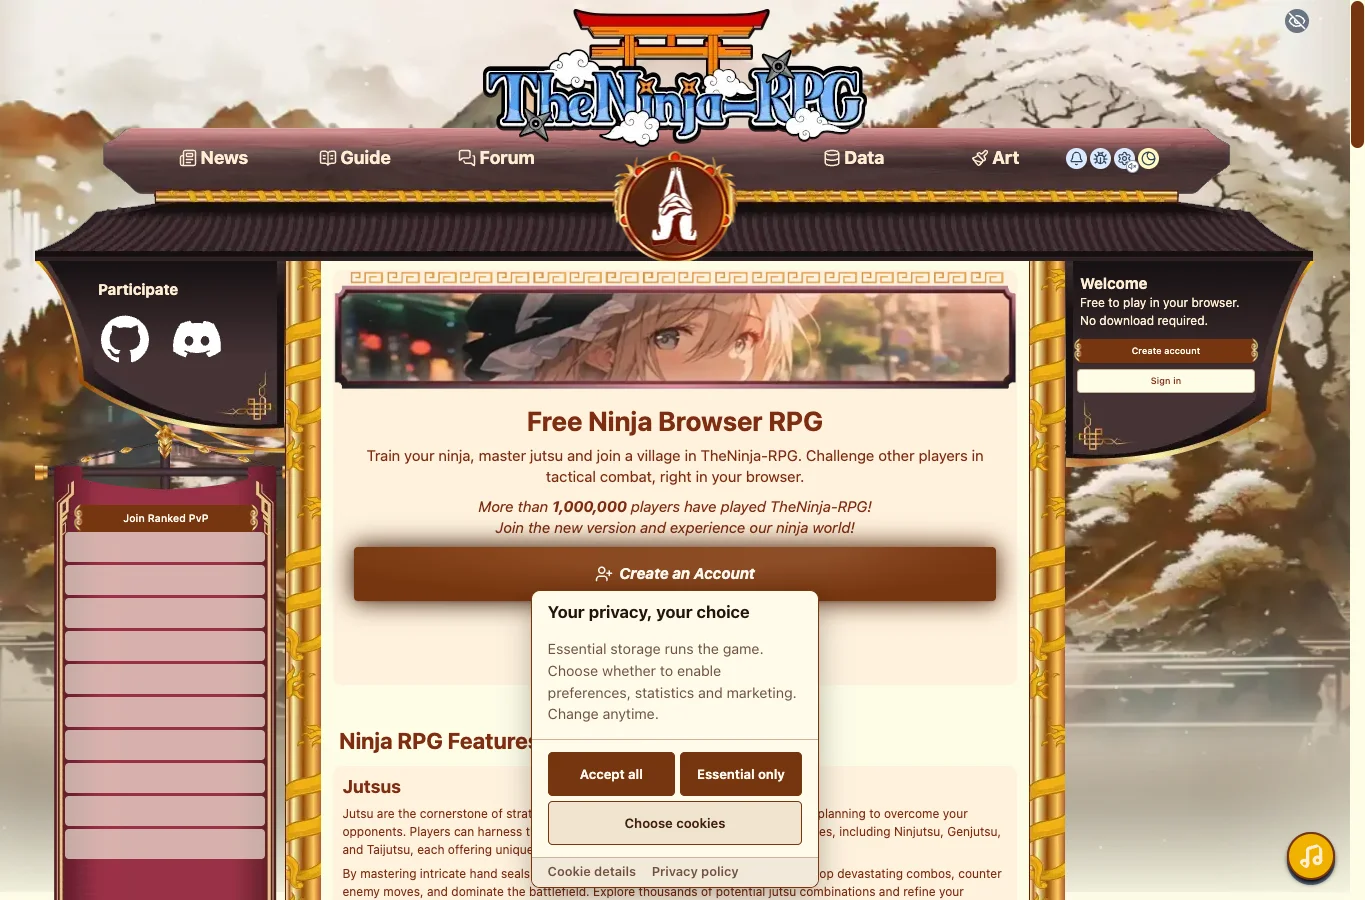
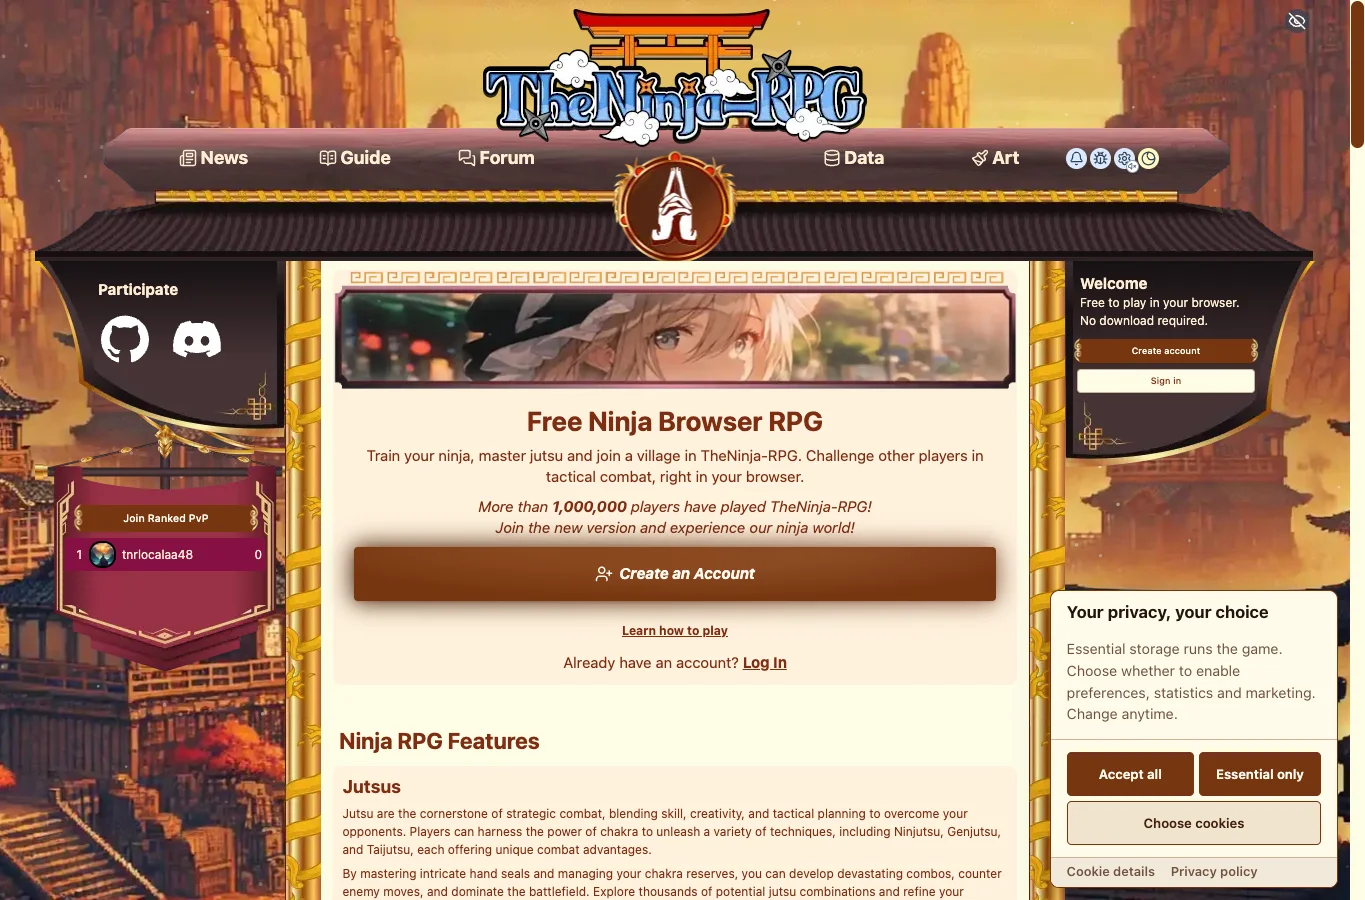
Integrate cookie settings into mobile navigation

diff --git a/app/tests/components/layout/mobile-game-nav.test.tsx b/app/tests/components/layout/mobile-game-nav.test.tsx
@@ -1,0 +1,123 @@
+import { afterEach, beforeEach, describe, expect, it, vi } from "bun:test";
+import { cleanup, fireEvent, render } from "@testing-library/react";
+import { MobileGameNav } from "@/components/layout/shared/MobileGameNav";
+import * as nativeShell from "@/hooks/useNativeShell";
+import * as cookieConsent from "@/libs/cookieConsent";
+import type { MobileNavConfig } from "@/libs/mobileNavConfig";
+import {
+  installBrowserGlobals,
+  restoreBrowserGlobals,
+} from "../../setup/browserGlobals";
+
+const userAgent = Object.getOwnPropertyDescriptor(navigator, "userAgent");
+const shortcuts: MobileNavConfig = {
+  left: ["academy", "inbox"],
+  right: ["items", "tavern", "settings"],
+};
+const props = {
+  mobileNavConfig: shortcuts,
+  location: { name: "Village", href: "/village" },
+  yellowButtonClassName: "h-14 w-14",
+  mobileNavbarButtonClassName: "h-16 w-16",
+};
+
+beforeEach(() => {
+  installBrowserGlobals({ resizeObserver: true });
+  vi.spyOn(nativeShell, "useNativeShell").mockReturnValue(false);
+});
+
+afterEach(() => {
+  cleanup();
+  vi.restoreAllMocks();
+  restoreBrowserGlobals();
+  if (userAgent) Object.defineProperty(navigator, "userAgent", userAgent);
+  else Reflect.deleteProperty(navigator, "userAgent");
+});
+
+describe("mobile game navigation cookie settings", () => {
+  it("opens preferences without leaving the player's current page", () => {
+    const open = vi
+      .spyOn(cookieConsent, "openCookieConsentDialog")
+      .mockReturnValue(true);
+    const view = render(<MobileGameNav {...props} />);
+    const link = view.getByRole("link", { name: "Cookie settings" });
+    expect(link.getAttribute("aria-haspopup")).toBe("dialog");
+    expect(fireEvent.click(link)).toBe(false);
+    expect(open).toHaveBeenCalledTimes(1);
+  });
+
+  it("keeps a navigable consent page fallback when the manager is unavailable", () => {
+    const open = vi
+      .spyOn(cookieConsent, "openCookieConsentDialog")
+      .mockReturnValue(false);
+    let isNavigationPrevented: boolean | undefined;
+    const view = render(
+      <div
+        onClick={(event) => {
+          isNavigationPrevented = event.defaultPrevented;
+          event.preventDefault();
+        }}
+      >
+        <MobileGameNav {...props} />
+      </div>,
+    );
+    const link = view.getByRole("link", { name: "Cookie settings" });
+    expect(link.getAttribute("href")).toBe("/consent");
+    fireEvent.click(link);
+    expect(open).toHaveBeenCalledTimes(1);
+    expect(isNavigationPrevented).toBe(false);
+  });
+
+  it("retains all five configured shortcuts and the village destination", () => {
+    const view = render(<MobileGameNav {...props} />);
+    expect(
+      view
+        .getAllByRole("link")
+        .map((link) => [link.getAttribute("aria-label"), link.getAttribute("href")]),
+    ).toEqual([
+      ["Cookie settings", "/consent"],
+      ["Academy", "/academy"],
+      ["Inbox", "/inbox"],
+      ["Village", "/village"],
+      ["Items", "/items"],
+      ["Tavern", "/tavern"],
+      ["Settings", "/profile/edit"],
+    ]);
+  });
+
+  it("preserves travel outside a village and hides an unavailable configured travel link", () => {
+    const view = render(
+      <MobileGameNav
+        {...props}
+        location={undefined}
+        mobileNavConfig={{ ...shortcuts, left: ["profile", "travel"] }}
+      />,
+    );
+    expect(view.getAllByRole("link", { name: "Travel" })).toHaveLength(1);
+    expect(view.getByRole("link", { name: "Travel" }).getAttribute("href")).toBe(
+      "/travel",
+    );
+    expect(view.queryByRole("link", { name: "Village" })).toBeNull();
+    expect(view.getByRole("link", { name: "Cookie settings" })).toBeTruthy();
+  });
+
+  it.each([undefined, true])(
+    "keeps web consent out of an unconfirmed or native shell (%s)",
+    (native) => {
+      vi.spyOn(nativeShell, "useNativeShell").mockReturnValue(native);
+      const view = render(<MobileGameNav {...props} />);
+      expect(view.queryByRole("link", { name: "Cookie settings" })).toBeNull();
+      expect(view.getAllByRole("link")).toHaveLength(6);
+    },
+  );
+
+  it("keeps web consent out of a native user agent when the bridge is unavailable", () => {
+    Object.defineProperty(navigator, "userAgent", {
+      configurable: true,
+      value: "Mozilla/5.0 TNR-Native/1.0.0 (ios)",
+    });
+    const view = render(<MobileGameNav {...props} />);
+    expect(view.queryByRole("link", { name: "Cookie settings" })).toBeNull();
+    expect(view.getAllByRole("link")).toHaveLength(6);
+  });
+});

diff --git a/app/src/components/layout/shared/MobileGameNav.tsx b/app/src/components/layout/shared/MobileGameNav.tsx
@@ -1,11 +1,14 @@
 "use client";
 
-import { Compass, House } from "lucide-react";
+import { Compass, Cookie, House } from "lucide-react";
 import { useLayoutEffect, useRef } from "react";
+import { useNativeShell } from "@/hooks/useNativeShell";
 import Link from "@/layout/Link";
+import { openCookieConsentDialog } from "@/libs/cookieConsent";
 import type { NavBarDropdownLink } from "@/libs/menus";
 import type { MobileNavConfig } from "@/libs/mobileNavConfig";
 import { getNavOptionById } from "@/libs/mobileNavConfig";
+import { isNativeUserAgent } from "@/libs/native/userAgent";
 import { cn } from "@/libs/shadui";
 
 interface MobileGameNavProps {
@@ -32,13 +35,14 @@ const MobileGameNavButton: React.FC<{
     <Link
       href={option.href}
       aria-label={option.name}
-      className="relative -top-2 flex justify-center"
+      className="relative -top-2 flex min-h-[44px] min-w-0 justify-center"
     >
-      <Icon className={mobileNavbarButtonClassName} />
+      <Icon className={cn(mobileNavbarButtonClassName, "max-w-full")} />
     </Link>
   );
 };
 
+/** Shared mobile shortcuts, a fixed web consent control and the raised location action. */
 export const MobileGameNav: React.FC<MobileGameNavProps> = ({
   mobileNavConfig,
   location,
@@ -46,20 +50,38 @@ export const MobileGameNav: React.FC<MobileGameNavProps> = ({
   mobileNavbarButtonClassName,
   className,
 }) => {
+  const isNativeShell = useNativeShell();
+  const showCookieSettings =
+    isNativeShell === false && !isNativeUserAgent(navigator.userAgent);
   const navRef = useRef<HTMLDivElement>(null);
   useBottomNavInset(navRef);
   return (
     <div
       ref={navRef}
       className={cn(
-        // Two left shortcuts share the width of the three on the right, keeping the raised
-        // centre button in the middle without an empty slot. The insets clear a landscape notch.
-        "grid grid-cols-[1.5fr_1.5fr_1fr_1fr_1fr_1fr] items-center justify-center pr-[env(safe-area-inset-right)] pl-[env(safe-area-inset-left)]",
+        // The fixed web consent control balances the configured shortcuts around the centre.
+        // Native clients keep two wider left slots; the insets clear a landscape notch.
+        "grid items-center justify-center pr-[env(safe-area-inset-right)] pl-[env(safe-area-inset-left)]",
+        showCookieSettings ? "grid-cols-7" : "grid-cols-[1.5fr_1.5fr_1fr_1fr_1fr_1fr]",
         className,
       )}
     >
+      {showCookieSettings && (
+        <Link
+          href="/consent"
+          aria-label="Cookie settings"
+          aria-haspopup="dialog"
+          title="Cookie settings"
+          className="relative -top-2 flex min-h-[44px] min-w-0 justify-center"
+          onClick={(event) => {
+            if (openCookieConsentDialog()) event.preventDefault();
+          }}
+        >
+          <Cookie className={cn(mobileNavbarButtonClassName, "max-w-full")} />
+        </Link>
+      )}
       {mobileNavConfig.left.map((optionId) => (
-        <div key={optionId}>
+        <div key={optionId} className="min-w-0">
           <MobileGameNavButton
             optionId={optionId}
             location={location}
@@ -89,7 +111,7 @@ export const MobileGameNav: React.FC<MobileGameNavProps> = ({
         </Link>
       )}
       {mobileNavConfig.right.map((optionId) => (
-        <div key={optionId}>
+        <div key={optionId} className="min-w-0">
           <MobileGameNavButton
             optionId={optionId}
             location={location}

diff --git a/app/src/layout/profileEdit/MobileNavSettings.tsx b/app/src/layout/profileEdit/MobileNavSettings.tsx
@@ -85,7 +85,7 @@ export const MobileNavSettings: React.FC = () => {
   return (
     <div className="space-y-4 p-3">
       <p className="text-muted-foreground text-sm">
-        Customize the 5 buttons shown in your mobile navigation bar. The center button
+        Customize the 5 shortcuts in your mobile navigation bar. The center button
         automatically shows Village or Travel based on your location. Note: If you
         configure Travel in a slot, it will be hidden when outside the village (since
         the center button already shows Travel in that case).

diff --git a/app/src/libs/consentConfig.ts b/app/src/libs/consentConfig.ts
@@ -12,7 +12,7 @@ export const consentConfig: CookieConsentConfig = {
   guiOptions: {
     consentModal: {
       layout: "box inline",
-      position: "bottom center",
+      position: "bottom right",
       equalWeightButtons: true,
     },
     preferencesModal: { layout: "box", equalWeightButtons: true },

diff --git a/docs/consent/README.md b/docs/consent/README.md
@@ -36,3 +36,9 @@ persistence, and withdrawal behavior on a preview before production rollout.
 The recovery message preserves the displayed choices and offers another attempt.
 
 ![Consent settings recovery](screenshots/consent-recovery-desktop.webp)
+
+The signed-in mobile bar includes Cookie settings alongside the configured shortcuts. It opens preferences in place, with the consent page as a loading fallback.
+
+![Mobile cookie settings](screenshots/mobile-cookie-nav.webp)
+
+![Mobile cookie preferences](screenshots/mobile-cookie-preferences.webp)
